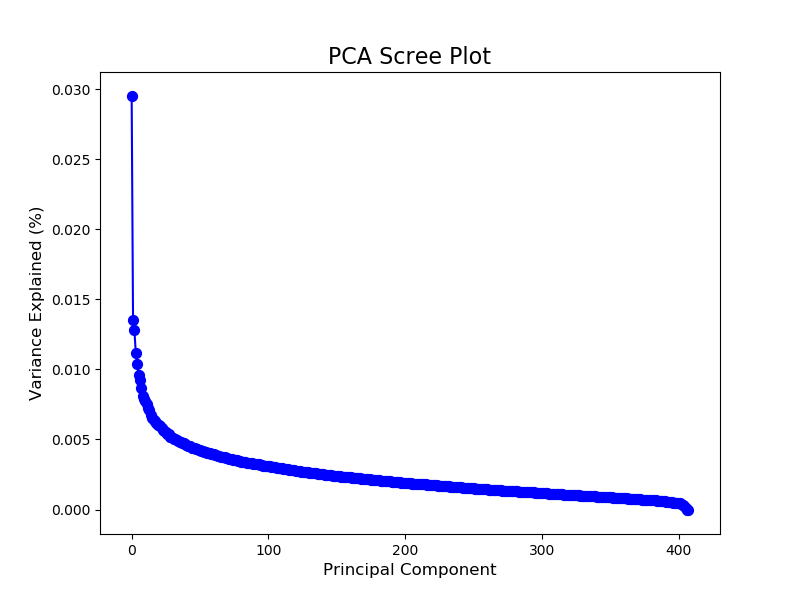
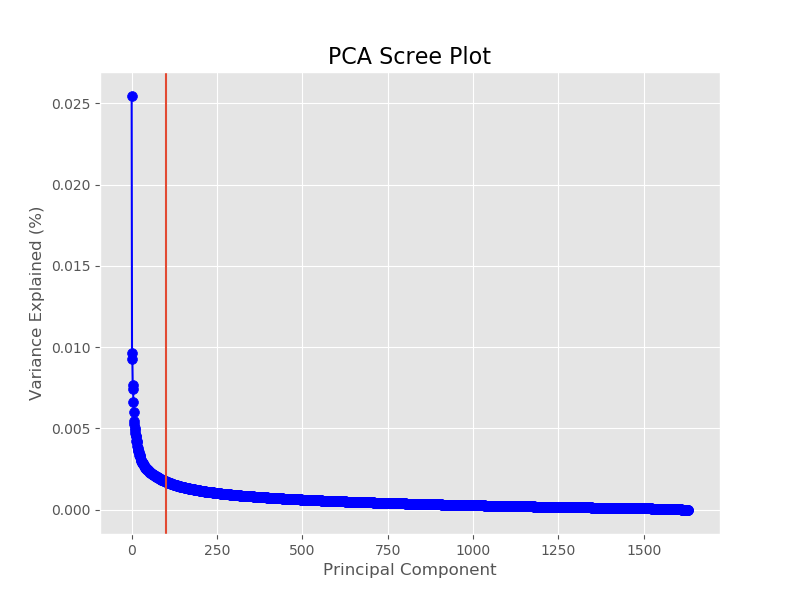
moving towards final version

diff --git a/src/ModelCompare.py b/src/ModelCompare.py
@@ -40,7 +40,7 @@ def Get_Corpus(fileName, get_y = True, is_WordVec = False, plot = False):
     
   corpus = df.review_body.copy().values
 
-def scree_plot(ax, pca, n_components_to_plot=8, title='PCA Scree Plot'):
+def scree_plot(ax, pca, title='PCA Scree Plot'):
     """Make a scree plot showing the variance explained (i.e. variance
     of the projections) for the principal components in a fit sklearn
     PCA object.
@@ -52,10 +52,7 @@ def scree_plot(ax, pca, n_components_to_plot=8, title='PCA Scree Plot'):
       
     pca: sklearn.decomposition.PCA object.
       A fit PCA object.
-      
-    n_components_to_plot: int
-      The number of principal components to display in the scree plot.
-      
+
     title: str
       A title for the scree plot.
     """
@@ -64,6 +61,7 @@ def scree_plot(ax, pca, n_components_to_plot=8, title='PCA Scree Plot'):
     vals = pca.explained_variance_ratio_
     ax.plot(ind, vals, color='blue')
     ax.scatter(ind, vals, color='blue', s=50)
+    ax.axvline(x=250)
 
     ax.set_xlabel("Principal Component", fontsize=12)
     ax.set_ylabel("Variance Explained (%)", fontsize=12)
@@ -111,8 +109,6 @@ def bar_plot(Dict, y_label, title, save_file, legend=False):
     ax = df.plot(kind='bar', x='Data Featurization Type', rot=0, legend=legend)
     ax.set_ylabel(y_label)
     ax.set_title(title)
-    if legend:
-      ax.get_legend().set_bbox_to_anchor((1,1.2))
     for i in ax.patches:
       ax.annotate(str(i.get_height())[:5], (i.get_x(), i.get_height() * 1.01))
     plt.savefig(save_file)
@@ -131,8 +127,8 @@ def Document_Save_to_file(filename, corpus, word_vec):
           f.write('\n')
 
 if __name__ == "__main__":
-    y, corpus = Get_Corpus('data/Amz_book_review_medium.parquet', plot=False)
-    word_vec = Get_Corpus('data/Amz_book_review_medium_vector.parquet', get_y=False, is_WordVec=True)
+    y, corpus = Get_Corpus('data/Amz_book_review_short.parquet', plot=False)
+    word_vec = Get_Corpus('data/Amz_book_review_short_vector.parquet', get_y=False, is_WordVec=True)
     
     # corpus_big, corpus_short, y_big, y_short = ModelSplitting(corpus, y, .25)
     # word_vec, word_vec_short, y_big, y_short = ModelSplitting(word_vec, y, .25)
@@ -148,15 +144,15 @@ if __name__ == "__main__":
                         ('tfidf', TfidfTransformer())
     ])
 
-    pca = PCA(n_components=100)
+    pca = PCA()
     X_train_tfidf = text_vect.fit_transform(X_train_tfidf).todense()
     X_test_tfidf = text_vect.transform(X_test_tfidf).todense()
     X_train_tfidf = pca.fit_transform(X_train_tfidf)
     X_test_tfidf = pca.transform(X_test_tfidf)
     
-    # fig, ax = plt.subplots(figsize=(8,6))
-    # scree_plot(ax, pca, n_components_to_plot=5000)
-    # plt.savefig('images/Screeplot.png')
+    fig, ax = plt.subplots(figsize=(8,6))
+    scree_plot(ax, pca)
+    plt.savefig('images/Screeplot.png')
 
     X_smt_tfidf, y_smt_tfidf = Smote(X_train_tfidf, y_train_tfidf)
     X_smt_vec_spacy, y_smt_vec_spacy = Smote(X_train_vec_spacy, y_train_vec_spacy)
@@ -189,7 +185,7 @@ if __name__ == "__main__":
 
     # comparing the models
     modelScores = {'Data Featurization Type': ['Gensim Doc2Vec','Spacy Doc2Vec', 'TFIDF'], 'Mean Squared Error' : [RandomForestMSE_vec_gensim, RandomForestMSE_vec_spacy, RandomForestMSE_tfidf]}
-    modelTime = {'Data Featurization Type': ['Gensim Doc2Vec','Spacy Doc2Vec', 'TFIDF'], 'Time To Build Model' : [gensim_build_time, spacy_build_time, tfidf_build_time], 'Time to Predict' : [gensim_predict_time, spacy_predict_time, tfidf_predict_time]}
+    modelTime = {'Data Featurization Type': ['Gensim Doc2Vec','Spacy Doc2Vec', 'TFIDF'], 'Time To Train Model' : [gensim_build_time, spacy_build_time, tfidf_build_time], 'Time to Predict' : [gensim_predict_time, spacy_predict_time, tfidf_predict_time]}
 
-    bar_plot(modelScores, 'Mean Squared Error', 'MSE for Data Featurization', 'images/Model_MSE_medium.png')
-    bar_plot(modelTime, 'Time (Seconds)', 'Model Time for Data Featurization', 'images/Model_Time_medium.png', legend=True)
+    bar_plot(modelScores, 'Mean Squared Error', 'MSE for Data Featurization', 'images/Model_MSE.png')
+    bar_plot(modelTime, 'Time (Seconds)', 'Model Time for Data Featurization', 'images/Model_Time.png', legend=True)

diff --git a/src/Doc2Vect.py b/src/Doc2Vect.py
@@ -24,7 +24,7 @@ class Doc2Vect(object):
         doc_vec_test = np.vstack(doc_vec_test)
         return doc_vec_train, doc_vec_test
     def _make_model(self, embedding_size = 300):
-        model = Doc2Vec(self.documents, vector_size=embedding_size, window=15, min_count=1,epochs=400, seed=42)
+        model = Doc2Vec(self.documents, vector_size=embedding_size, window=5, min_count=1,epochs=400, seed=42)
         model.delete_temporary_training_data(keep_doctags_vectors=True, keep_inference=True)
         return model
     

diff --git a/readme.md b/readme.md
@@ -2,8 +2,8 @@
 
 ![alt_text](images/headImage.png)
 
-
 ## Table of Contents
+- [Introduction](#introduction)
 - [EDA](#eda)
 - [Data Vectorization](#data-vectorization)
     - [Bag-of-Words](#bag-of-words)
@@ -18,9 +18,10 @@
 - [Future Direction](#future-direction)
 - [Acknowledgments](#acknowledgments)
 
-
-
+## Introduction
 For this second capstone I decided to investigate how well the different data featurization methods perform. In order to test this out I decided to use the Amazon reveiw dataset provided by Amazon because the data included many different writen reveiws along side the star reveiws given by each users. This alowed me to work with scalable data and to test how well the methods were performing.
+
+[Back to Top](#table-of-contents)
 
 ## EDA
 
@@ -41,13 +42,19 @@ To fix this probelm I decided on SMOTE the data. In order to do this I train tes
 ![alt_text](images/SMOTE_class_distributions.png)
 <sub><sub><sub><sub><sub>much better</sub></sub></sub></sub></sub>
 
+[Back to Top](#table-of-contents)
+
 ## Data Vectorization
 
 Even though this project is focused on strings, we still need to vectorize the data so that the models we use to predict will understand the data its looking at. The most common way to do this is the Bag-of-Words model but there has been a new development called Doc2Words.
 
+[Back to Top](#table-of-contents)
+
 ### Bag-of-Words
 
 Bag-of-Words works by creating a matrix where the rows are the documents of the corpus and the columns are the vocabulary. After you build the Bag-of-Words model you tend to make it into a tfidf (Term Frequency Inverse Document frequency) where the terms are the frequency a word apears in a document times how much information the word provides across the corpus.
+
+[Back to Top](#table-of-contents)
 
 ### Doc2Vec
 
@@ -63,17 +70,23 @@ Doc2Vec is very simular but it adds in the additional input of a document vector
 
 A good comparison for Bag-of-words and Doc2Vec is that Bag-of-words is the frequensist aproach to nlp while Doc2Vec and Word2Vec are the Bayesin aproach.
 
+[Back to Top](#table-of-contents)
+
 ## Creating the Featurizations
 
 In order to study how well these different featurizations perform I first had to figure out what tools and methods to use.
 
+[Back to Top](#table-of-contents)
+
 ### Bag-of-words
 
-For the Bag-of-words I decided to just use sklearns prebuilt tools and use PCA to reduce the dementionality. I first used the count vectorizor and then the Tfidf Transformer and I only looked at the top 5000 words to reduce the size. After this I trained the model on the training data and then transformed the test data. After this I looked at what the best choice for the number of componets in PCA would be to speed up the calculation.
+For the Bag-of-words I decided to just use sklearns prebuilt tools and use PCA to reduce the dementionality. I first used the count vectorizor and then the Tfidf Transformer to set up the vectors. After this I trained the model on the training data and then transformed the test data. After this I looked at what the best choice for the number of componets in PCA would be to speed up the calculation.
 
 ![alt_text](images/Screeplot.png)
 
-From this scree plot it looks like 100 componets will work best which is a large reduction in dimentionality which should speed up the computation.
+From this scree plot it looks like 250 componets will work best which is a large reduction in dimentionality which should speed up the computation.
+
+[Back to Top](#table-of-contents)
 
 ### Doc2Vect
 
@@ -103,13 +116,15 @@ and acording to my gensim built on 20000 datapoints:
 
 |Original Document|Most Simular|Least Simular|
 |-----------------|------------|-------------|
-||||
-||||
-||||
-||||
-||||
+|good reading very think provoking and compelling too bad its not true the big fallacy lie in the basic story itself corso leak alien technology information into private industry during the cold war the basic story contradict itself corso himself state|I must not understand black hole one of smolin most interesting conjecture in this book be that the big bang of our universe be just the rebound from the collapse of black hole within some large universe and that within all black hole|great condition|
+|the groom be describe as have green eye few page later he have brown eye that type of discrepancy be distract at good the dialogue be not appropriate for the time period and the character be not fully develop It start out well then quickly fizzle out|great book and great series I particularly enjoy learn some history while I enjoy good story I highly recommend it|good good book|
+|if you have read book like positive thinking by napoleon hill or clement stone this book be sort of copycat nothing new sorry|I enjoy see the whimsical painting of ted geisel dr seuss the book have have place of honor on my coffee table|great prayerbook|
+|this be the second book I have read write by dr lee the book be great if you want scientific datum it be there but he explain it in such an oversimplified way that it be easy to apply his finding to your own health after read the book|re post though edit from blog I read through stanley grenz reason for hope the systematic theology of wolfhart pannenberg as well as few article by pannenberg over the course of week as diversion from the frantic preparation for move from country to another|cute cute cute|
+|this excellent biography miss the most common pitfall it do not engage in hagiography nor do it treat the subject in condescending way It be well research and well write highly recommend to anyone interested in margery allingham|this series be nothing but amazing from start to finish the twice lost be beautiful exciting and very very sad these book make the possibility of mermaid more real than ever this book be heart wrench ending to wonderful story great read for all age|good good book|
 
 As you can see there is some understadable realationship between each of these documents for what spacy produces with non-english reviews always beeing the most dissimular. With Gensim however the results seem a bit more random which I belive comes from how small the training set was (less than 2000 documents) which makes it a weaker model at the moment. But since I can train the gensim model I think that increasing the amount of data it trains on would inprove its results.
+
+[Back to Top](#table-of-contents)
 
 ## Performance
 
@@ -125,6 +140,8 @@ Most of these are the defualt parameters of sklearn which in some cases makes th
 
 The hyperparameters that are changed from the default do make some amount of sense. because This is a large data set outliers would be much less likely which means bootstrapping is not needed to simulate the population so the full data set can be used to make the model. Min Samples split is the minimum amount of samples needed in a leaf to split and it does make sense that it would default to a smaller number because that helps the leafs split to the minimum samples per leaf. With the Tfidf and Gensim models I think that the min sample split became 3 because two values ended up being very close together and tended to end in the same node producing much better results than if these two samples were to be split apart. And lastly the number of estimators ended just shy of 100 because even though the random forest model each tree purposfully overfits the data, but if you make to many trees you start capturing the noise even though you are selecting the average results of all the trees.
 
+[Back to Top](#table-of-contents)
+
 ### 2000 Data points
 
 After training the predicting off of these modes I found the following results with a data set of 2000 points:
@@ -139,6 +156,8 @@ From this you can see that tfidf had the fastest build time and its predict time
 
 What in this case I think that I would pick spacy for data featurization because it has the best MSE and is in the medium for building and predict time.
 
+[Back to Top](#table-of-contents)
+
 ### 20000 Data points
 
 To See what happens with more data points I increased the amount of data and re-ran the code to see how the data would perform
@@ -151,6 +170,8 @@ To See what happens with more data points I increased the amount of data and re-
 
 
 
+[Back to Top](#table-of-contents)
+
 ## Conclusion
 
 If we look at both of these metrics, I would choose to use spacy because it performs only slightly worse than Tfidf but it trains the model the fastest and is tied for predict time. I belive that if the data was scalled up further or no pca being implimented spacy would massivly out perform Tfidf on the time while producing comparable MSE.
@@ -159,15 +180,21 @@ With Gensim I think that it is performing the worst because I am building my own
 
 In conclusion, it seems that in smaller datasets Tfidf performs the best but that Doc2Vec will inprove with larger datasets and more traning time.
 
+[Back to Top](#table-of-contents)
+
 ## Future Direction
 
-I plan on taking this dataset and the tools that I have learned to start applying Doc2Vec into deep learning in order to build much stronger models on larger data.
+I plan on taking this dataset and the tools that I have learned to start applying Doc2Vec into deep learning in order to build much stronger models on larger data. Some intresting things to look at is using Doc2Vec and review scores to make a recomendation system baised on the users writen review.
+
+[Back to Top](#table-of-contents)
 
 ## Acknowledgments
 
-- [Taite Sandefer](https://github.com/tsandefer) For helping me understand Doc2Vec and sending me papers and some of her code
+- [Taite Sandefer](https://github.com/tsandefer) For helping me understand Doc2Vec and sending me papers and some code
 - The Galvanize Instructor team for helping me with code and narrowing my focus
 - [The Paper](http://www.aclweb.org/anthology/W16-1609) by Jey Han Lau and Timothy Baldwin for Evaluation and setting up a Doc2Vec model
 - [The Video](https://www.youtube.com/watch?v=zFScws0mb7M) From Rober Meyer explaning what Doc2vec is and what tools to use
 - [This Article](https://towardsdatascience.com/yet-another-twitter-sentiment-analysis-part-1-tackling-class-imbalance-4d7a7f717d44) by Ricky Kim for an explanation and the code to clean text using spacy
 - Amazon for providing the [data set](https://registry.opendata.aws/amazon-reviews/) for this capstone
+
+[Back to Top](#table-of-contents)
